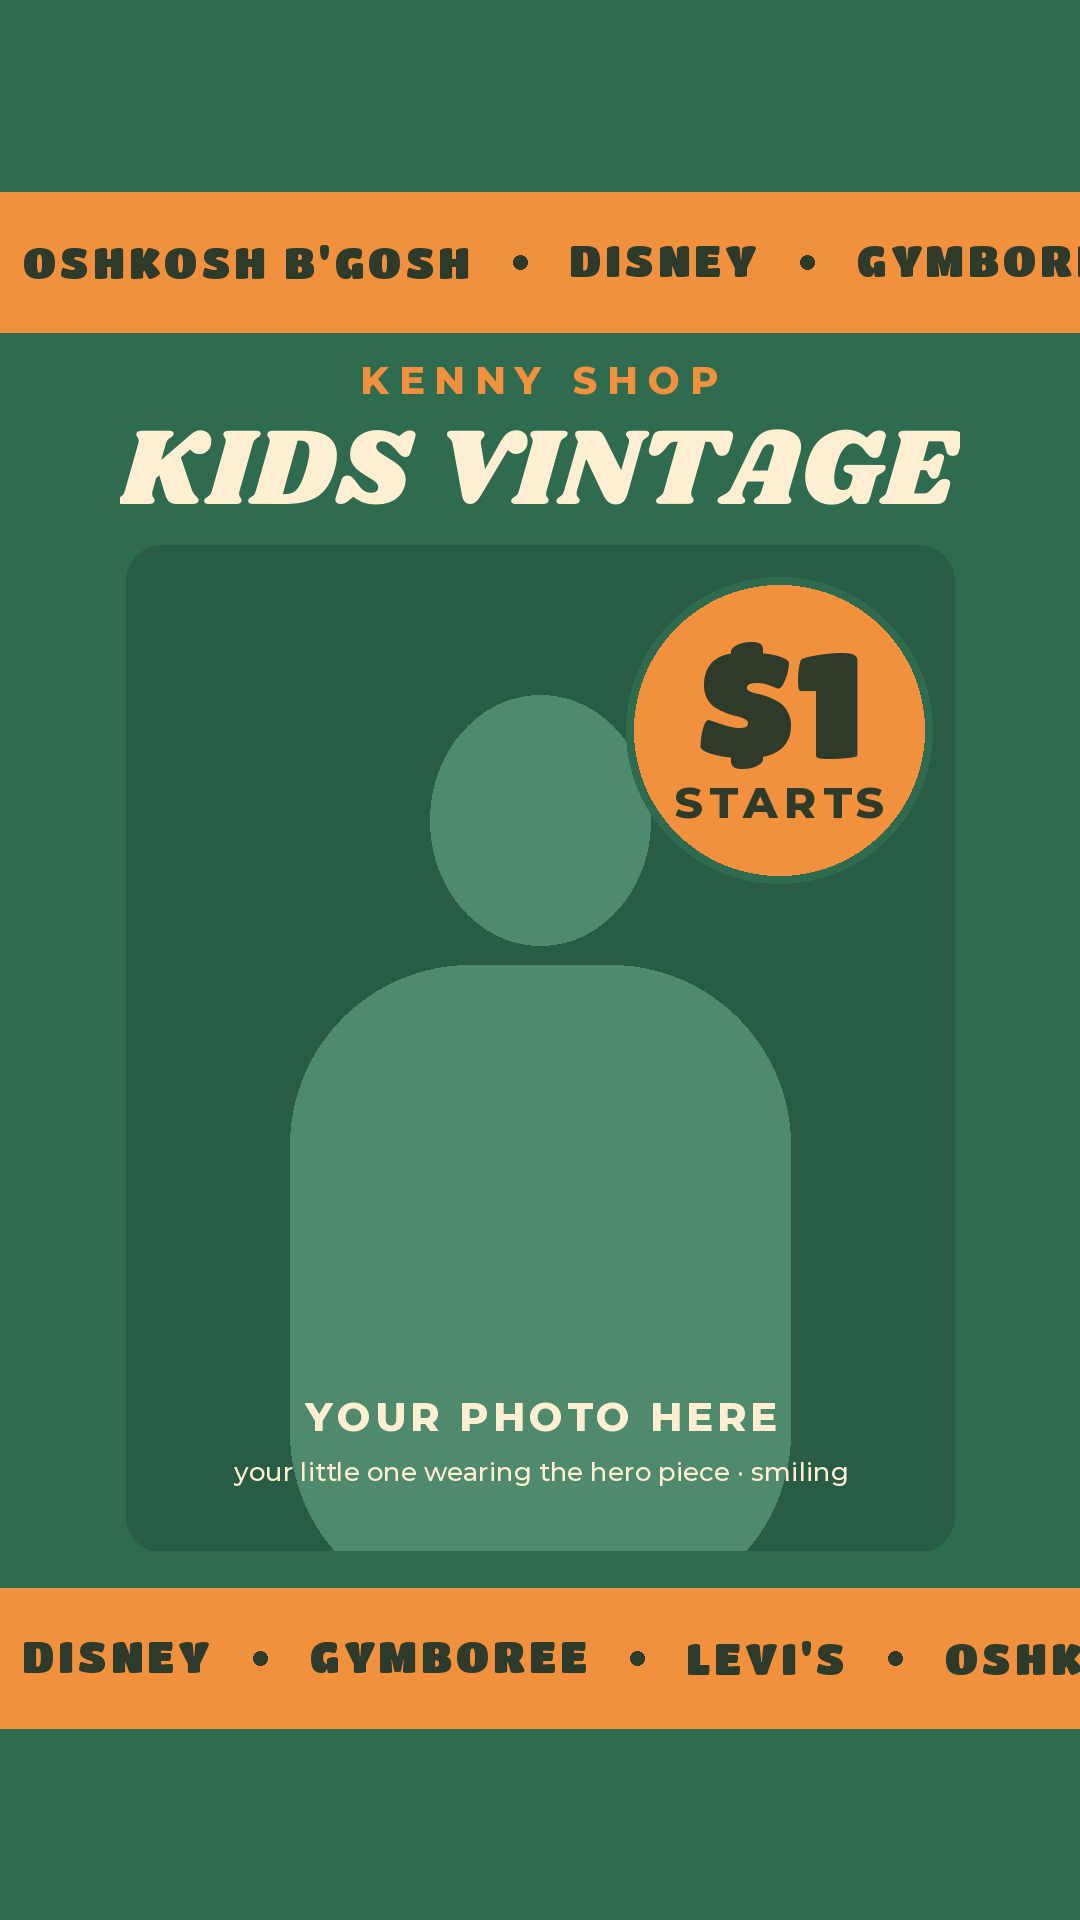
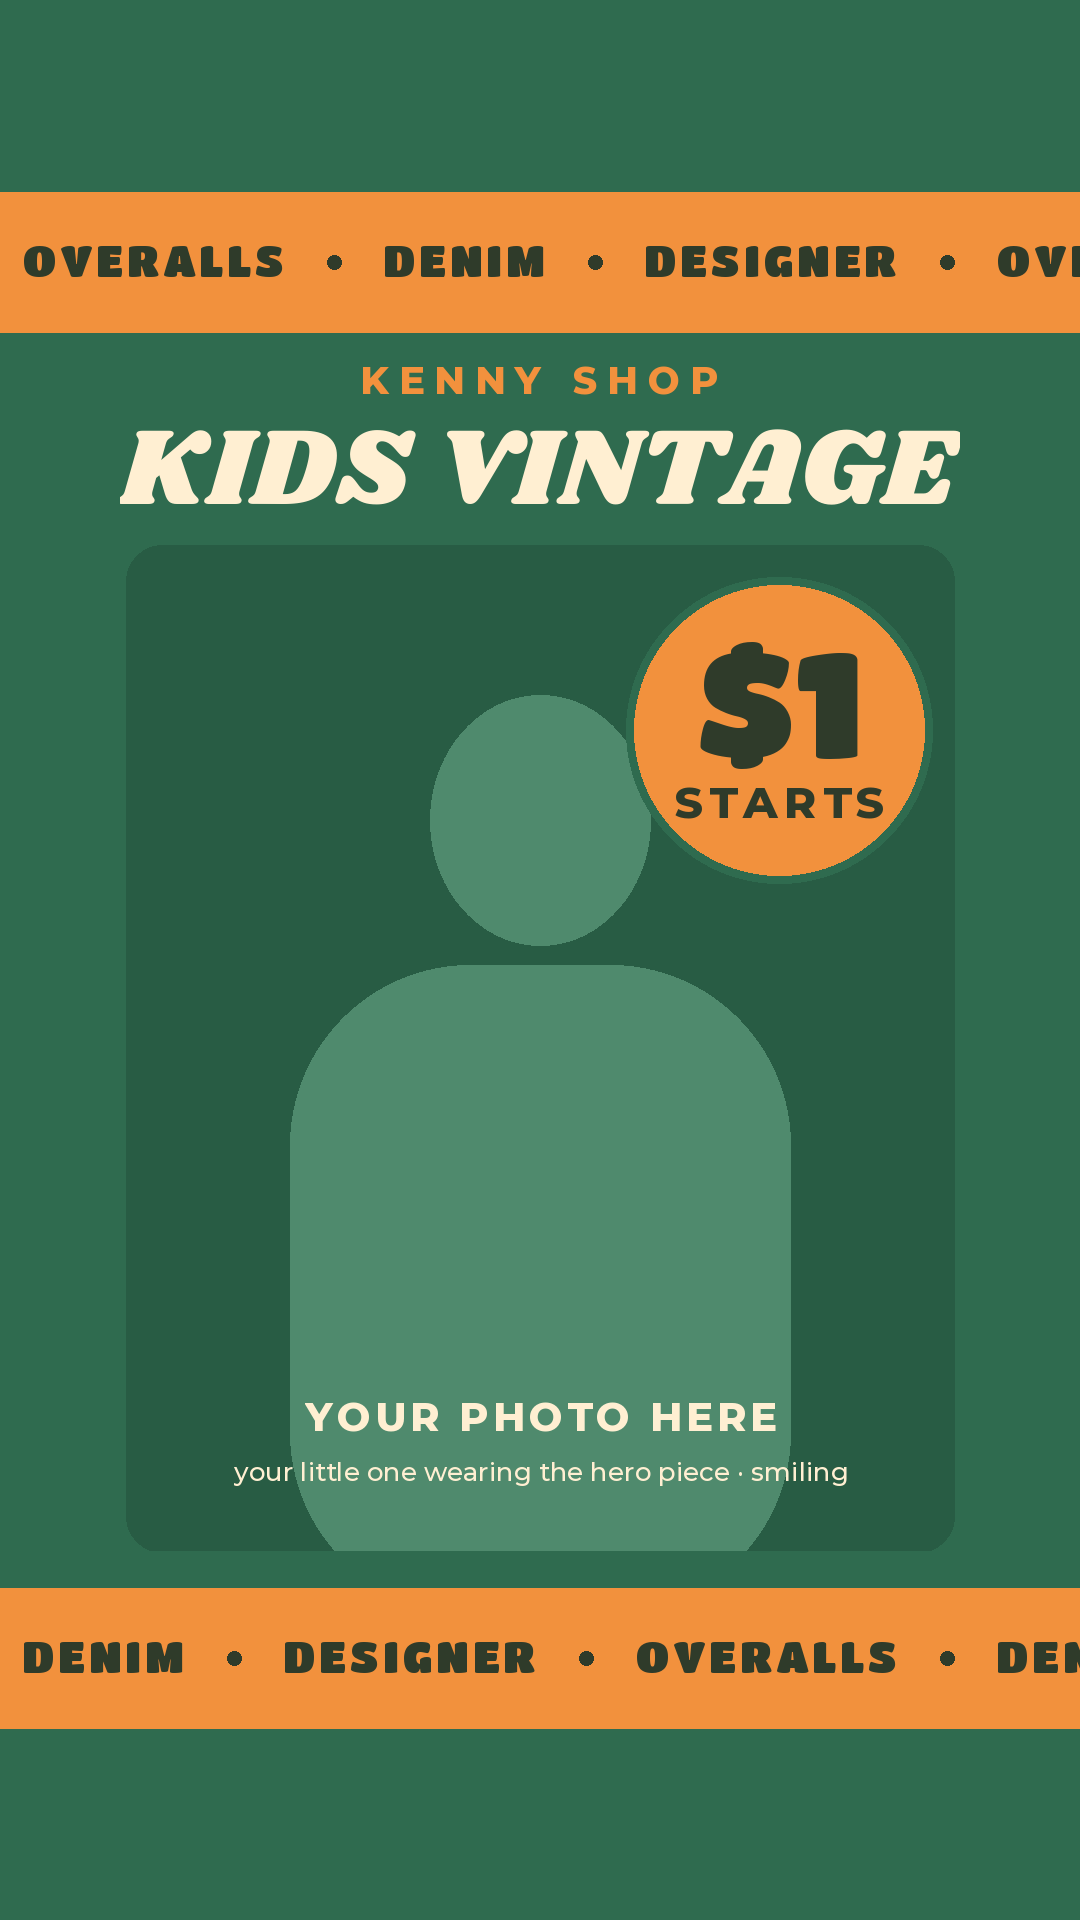
Kids covers: clearer size lines; Kids Vintage runners now Overalls, Denim, Designer
Claude-Session: https://claude.ai/code/session_01Q51WZ95sB4G4SBq6JMRbx6

diff --git a/02-branding/whatnot-covers/make_covers.py b/02-branding/whatnot-covers/make_covers.py
@@ -57,7 +57,7 @@ SHOWS["kids-vintage"] = dict(
     head_font=RETRO, head_scale=1.0, top_font=CHUNKY, top_size=96, badge_font=CHUNKY,
     top="KIDS", main="VINTAGE", brand_font=CHUNKY, photo_hint=KID_HINT,
     footer_font=CHUNKY, footer_size=58, footer_ink="#FFEFD2", one_line=True,
-    brands=["OSHKOSH B'GOSH", "DISNEY", "GYMBOREE", "LEVI'S"],
+    brands=["OVERALLS", "DENIM", "DESIGNER"],
 )
 SHOWS["kids-modern"] = dict(
     # soft mint + navy + tangerine, rounded type
@@ -69,7 +69,8 @@ SHOWS["kids-modern"] = dict(
     brands=["HANNA ANDERSSON", "MINI BODEN", "ZARA"],
     one_line=True, badge="bottom-left",  # keeps the $1 off her face
 )
-KID_SIZES = {"baby": "SIZES NB–24M", "kids": "SIZES 2T–XL"}
+# baby = newborn to 24 months; kids = toddler 2T through big-kid 16 (XL)
+KID_SIZES = {"baby": "BABY · NB–24M", "kids": "TODDLER & KIDS · 2T–16"}
 KID_PHOTOS = {  # photo, crop
     "kids-vintage": (HERE / "photos" / "kids-vintage.png", (190, 30, 1100, 1300)),
     "kids-modern": (HERE / "photos" / "kids-modern.png", (100, 280, 1320, 1590)),
@@ -270,7 +271,7 @@ def build(name, s, out=None):
         y = paste_center(c, fit_text(s["main"], s["head_font"], inner, 170, s["ink"], s["head_scale"]), y) + 40
     footer = None
     if s.get("footer"):
-        footer = text_img(s["footer"], s.get("footer_font", SANS_B), s.get("footer_size", 40),
+        footer = fit_text(s["footer"], s.get("footer_font", SANS_B), inner, s.get("footer_size", 40),
                           s.get("footer_ink", s["accent"]), spacing=12)
     footer_h = footer.height + 52 if footer else 0
     photo_box = (sx0 + 40, y, sx1 - 40, sy1 - BAND - 36 - footer_h)

diff --git a/02-branding/thumbnail-maker.md b/02-branding/thumbnail-maker.md
@@ -56,7 +56,7 @@ slightly low in the strip (`RUNNER_NUDGE` in `make_covers.py`).
 ### Kids Vintage: 70s green + orange
 - Colors: forest green `#2F6B4F` · cream `#FFEFD2` (headline, sizes) · orange `#F2913D` (runners, Kenny Shop, $1 badge) · dark green `#2F3B2A` (runner and badge text)
 - Fonts: Shrikhand for "KIDS VINTAGE" (retro script, one line), Titan One for the $1, sizes and runners
-- Text: `KIDS VINTAGE` · `$1 STARTS` · runners: OshKosh B'gosh · Disney · Gymboree · Levi's (Claude's picks; swap in real brands)
+- Text: `KIDS VINTAGE` · `$1 STARTS` · runners: `OVERALLS` · `DENIM` · `DESIGNER` (categories, not brands)
 - Photo: a little one wearing a vintage hero piece (patchwork overalls, a character tee)
 - Other colors tried (mustard + cherry was the first version): `whatnot-covers/options-kids-vintage.png`
 
@@ -69,7 +69,7 @@ slightly low in the strip (`RUNNER_NUDGE` in `make_covers.py`).
 
 Both kids covers put the headline on one line (`one_line`) so the photo slot is taller and the
 whole outfit fits. Each kids show has two covers, one per size run, with the sizes in big type under the photo:
-`SIZES NB–24M` (baby) and `SIZES 2T–XL` (kids). They're in `final/` as
+`BABY · NB–24M` and `TODDLER & KIDS · 2T–16` (16 = kids' XL). They're in `final/` as
 `kids-vintage-baby`, `kids-vintage-kids`, `kids-modern-baby`, `kids-modern-kids`.
 To use a different photo, put it in `photos/` and change `KID_PHOTOS` in `make_covers.py`.
 

diff --git a/LESSONS.md b/LESSONS.md
@@ -66,10 +66,10 @@ Claude reads this before every task and adds to it as it goes (see
 
 - Whatnot covers are built by `02-branding/whatnot-covers/make_covers.py`
   (one entry per show in `SHOWS`); style notes live in `02-branding/thumbnail-maker.md`.
-- Kids shows get two covers each: `SIZES NB–24M` and `SIZES 2T–XL`. Jade
-  sends photos of a child wearing the pieces; keep them in `photos/` (git-ignored,
-  repo is public). Kids Modern brands: Hanna Andersson, Mini Boden, Zara. Kids
-  Vintage brands (OshKosh, Disney, Gymboree, Levi's) are Claude's picks.
+- Kids shows get two covers each: `BABY · NB–24M` and `TODDLER & KIDS · 2T–16`.
+  Jade sends photos of a child wearing the pieces; keep them in `photos/`
+  (git-ignored, repo is public). Kids Modern runners: Hanna Andersson, Mini
+  Boden, Zara. Kids Vintage runners: Overalls, Denim, Designer.
 - Phone screenshots of photos: crop out the Photos app bars before using them.
 - Crop cover photos tight on the child with the full outfit showing, and move
   the $1 badge (`badge=` in `SHOWS`) so it never covers her face.
